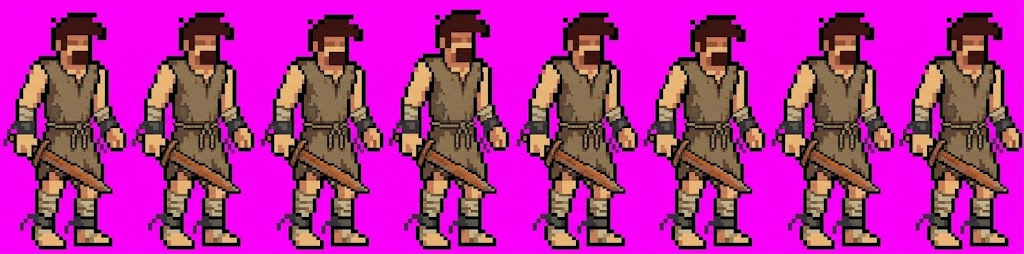
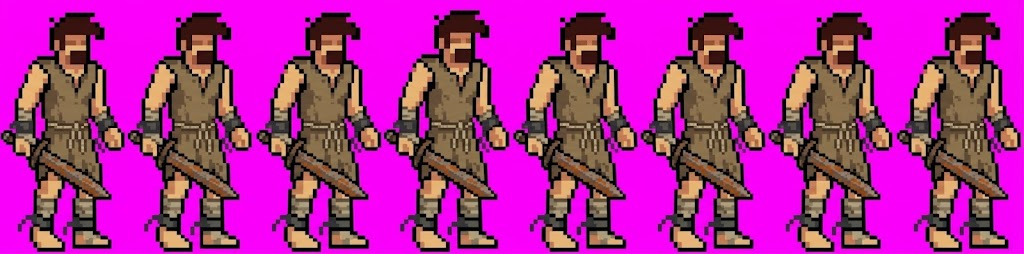
Idle con espada: tira nueva con borde limpio, sin restos del fondo

diff --git a/herramientas/sprites/tira_ia_a_hoja.py b/herramientas/sprites/tira_ia_a_hoja.py
@@ -6,7 +6,8 @@ Uso: tira_ia_a_hoja.py original.png salida.png --cuadros 8 --factor 2
 Quita el fondo y su halo, alinea los cuadros por los pies y reduce con una paleta
 común para que el color no parpadee. --factor es la altura de la figura en la tira
 entre 120. Al reducir, cada píxel toma un color de la paleta en vez de un promedio:
-así el contorno no se emborrona.
+así el contorno no se emborrona. El borde exterior se suaviza y se repinta con un
+contorno de un solo grosor y color, sin restos del fondo.
 La hoja se dibuja a escala 1/3 (ver ARMED_ANIMATION_SCALES en player.gd): figura de
 40 px como la caja de colisión, con el mismo detalle en pantalla que el prisionero.
 El pie y el centro caen donde en las hojas 288x128 del Player, multiplicados por 3.
@@ -24,6 +25,9 @@ FILAS_PIES = 18  # Filas de la hoja final, desde abajo, con las que se alinea.
 PROPORCION_OSCURA = 0.3  # Parte de un bloque que debe ser oscura para contar como contorno.
 LUMA_OSCURA = 0.55  # Suma de canales, en 0..3, por debajo de la que un color es oscuro.
 TONO_PARECIDO = 0.75  # Distancia, suma de canales en 0..3, que se considera ruido entre cuadros.
+COLOR_CONTORNO = (0.09, 0.05, 0.07)
+GROSOR_CONTORNO = 1  # Píxeles de la hoja: el resto del grosor ya viene en el dibujo.
+RADIO_SUAVIZADO = 2  # Vecindario de la silueta que decide si un píxel se queda.
 
 
 def quitar_fondo(rgb: np.ndarray) -> np.ndarray:
@@ -95,6 +99,28 @@ def estabilizar(cuadros: list[np.ndarray]) -> list[np.ndarray]:
     return list(resultado)
 
 
+def vecinos(mascara: np.ndarray, radio: int) -> np.ndarray:
+    """Cuenta, para cada píxel, cuántos del cuadrado de ese radio están activos."""
+    cuenta = np.zeros(mascara.shape, dtype=int)
+    for dy in range(-radio, radio + 1):
+        for dx in range(-radio, radio + 1):
+            cuenta += np.roll(np.roll(mascara, dy, axis=0), dx, axis=1)
+    return cuenta
+
+
+def limpiar_borde(cuadro: np.ndarray) -> np.ndarray:
+    """Quita los dientes de la silueta y repinta su borde con el contorno."""
+    opaco = cuadro[..., 3] > 0.0
+    lado = RADIO_SUAVIZADO * 2 + 1
+    silueta = vecinos(opaco, RADIO_SUAVIZADO) * 2 > lado * lado
+    lado_contorno = GROSOR_CONTORNO * 2 + 1
+    interior = vecinos(silueta, GROSOR_CONTORNO) == lado_contorno * lado_contorno
+    resultado = cuadro.copy()
+    resultado[..., 3] = silueta.astype(float)
+    resultado[silueta & (~interior | ~opaco), :3] = COLOR_CONTORNO
+    return resultado
+
+
 def main() -> None:
     argumentos = argparse.ArgumentParser(description=__doc__)
     argumentos.add_argument("entrada")
@@ -124,6 +150,7 @@ def main() -> None:
         alineados = [np.roll(c, opciones.factor - resto, axis=0) for c in alineados]
     paleta, tabla = crear_paleta(alineados, opciones.colores)
     reducidos = estabilizar([reducir(c, paleta, tabla, opciones.factor) for c in alineados])
+    reducidos = [limpiar_borde(c) for c in reducidos]
 
     # Eje: centro de los pies del primer cuadro, común a todos.
     pies = np.where(reducidos[0][-(FILAS_PIES + 24):, :, 3].max(axis=0) > 0)[0]

diff --git a/docs/P42_CALABOZO_INICIAL.md b/docs/P42_CALABOZO_INICIAL.md
@@ -148,6 +148,7 @@ Se pusieron a mano en `tiles_calabozo_combate.tscn` para ver cómo reaccionan; n
 - **Hecho:** `idle` (8 cuadros, 5 fps), en `Elementals_fire_knight_FREE_v1.1/espada/idle_ia/`, con `original_ia.png` al lado, como las tiras del prisionero.
 - **Cómo se procesa una tira:** `python3 herramientas/sprites/tira_ia_a_hoja.py original_ia.png hoja.png --cuadros 8 --factor 2`. `--factor` es la altura de la figura en la tira entre 120 (la tira de `idle` mide 238 px). Quita el magenta y su halo, fija los pies entre cuadros, reduce con una paleta común y quita el ruido de color entre cuadros.
 - **Reducción:** cada píxel toma un color de la paleta, no un promedio, y los bloques con al menos un 30 % de oscuro toman el oscuro, para que el contorno no se emborrone. Los que apenas cambian de tono entre cuadros toman su color habitual: la primera `idle` cambiaba cerca del 70 % de los píxeles en cada cuadro.
+- **Borde:** la silueta se suaviza con un vecindario de 5x5 y su perfil se repinta de 1 px con un color oscuro fijo. Antes la mitad de los píxeles del borde conservaba tinte morado del fondo y el contorno salía dentado. Sacar los píxeles siguiendo la cuadrícula del dibujo (unos 4.17 px en la tira) deja buen borde, pero pierde la espada y el cinturón: no encaja igual en todo el cuadro.
 - **Resolución:** las hojas son de 864x384 por cuadro, con el pie en la fila 380 y el centro en la columna 432, y se dibujan a escala 1/3. Así la figura mide 40 px como la caja de colisión y da el detalle del prisionero, que usa hojas grandes a escala 0.18. A 40 px y escala 1 los píxeles medían el triple que los del prisionero y el personaje se veía borroso. Es una excepción a los sprites de escala entera, la misma del prisionero.
 - Cada animación con hoja nueva se añade a `ARMED_ANIMATION_SCALES` en `player.gd`; las del caballero siguen a escala 1 y el pie cae en el mismo punto en ambas.
 - `prisn.tscn` tiene la colisión en otro sitio que `player.tscn`: `_load_armed_sprite_frames` lleva el sprite armado a los pies de la caja de cada escena.
